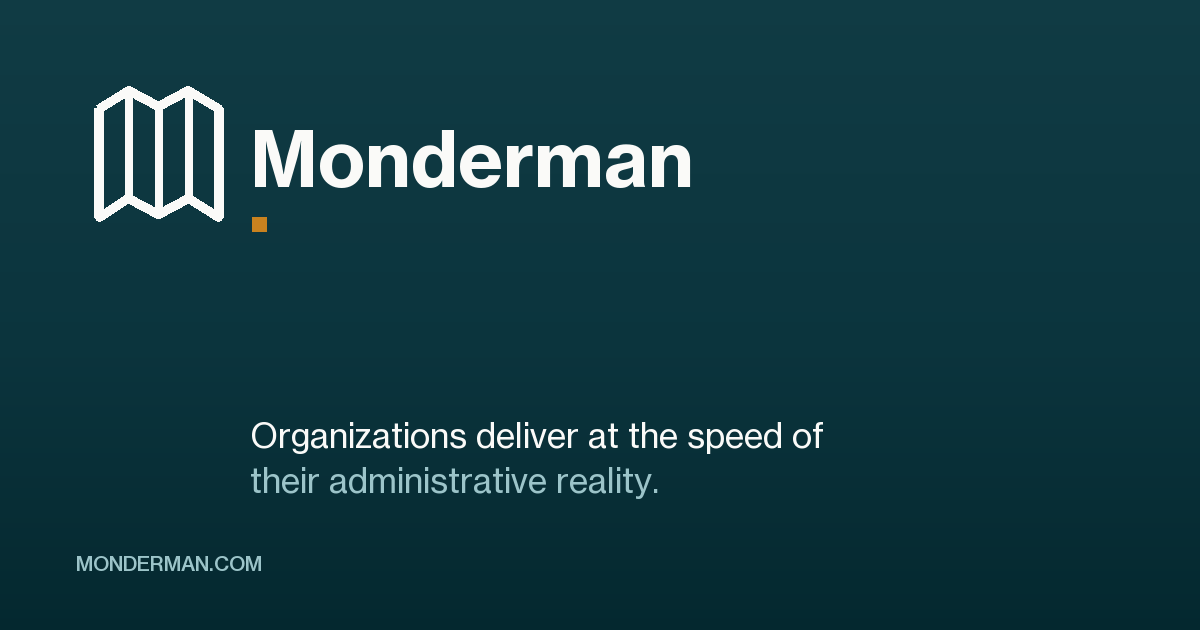
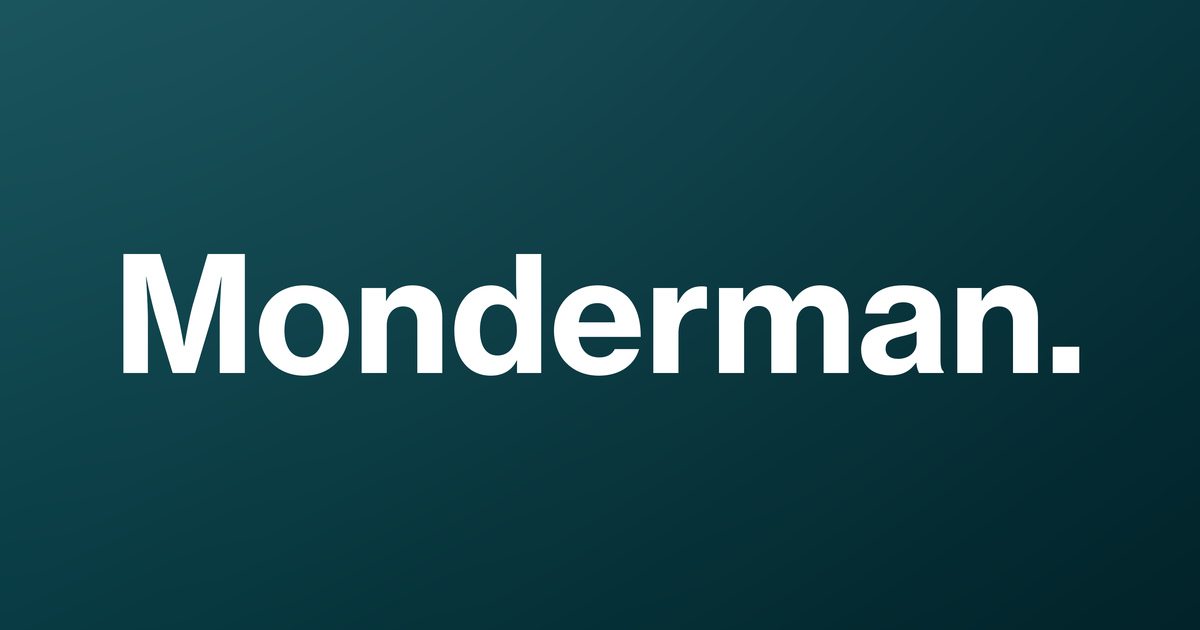
Replace Monderman social sharing card

diff --git a/the-culture-trap.html b/the-culture-trap.html
@@ -7,12 +7,12 @@
   <link rel="apple-touch-icon" href="apple-touch-icon.png?v=20260830-cert1">
 <link rel="stylesheet" href="canonical-site-shell.css?v=20260830-readiness1">
 
-  <meta property="og:image" content="https://www.monderman.com/assets/brand/monderman-social-card.png?v=20260830-cert1">
+  <meta property="og:image" content="https://www.monderman.com/assets/brand/monderman-social-card.png?v=20260901-og2">
   <meta property="og:image:width" content="1200">
   <meta property="og:image:height" content="630">
   <meta property="og:image:alt" content="Monderman">
   <meta name="twitter:card" content="summary_large_image">
-  <meta name="twitter:image" content="https://www.monderman.com/assets/brand/monderman-social-card.png?v=20260830-cert1">
+  <meta name="twitter:image" content="https://www.monderman.com/assets/brand/monderman-social-card.png?v=20260901-og2">
   <meta name="twitter:image:alt" content="Monderman">
 </head><body class="canonical-green-shell page-report"><header class="header" id="siteHeader">
     <div class="header-inner">

diff --git a/sample-report.html b/sample-report.html
@@ -1573,12 +1573,12 @@
 <link rel="stylesheet" href="canonical-site-shell.css?v=20260830-readiness1">
 <link rel="stylesheet" href="sample-report-production.css?v=20260824-sample-alignment">
 
-  <meta property="og:image" content="https://www.monderman.com/assets/brand/monderman-social-card.png?v=20260830-cert1">
+  <meta property="og:image" content="https://www.monderman.com/assets/brand/monderman-social-card.png?v=20260901-og2">
   <meta property="og:image:width" content="1200">
   <meta property="og:image:height" content="630">
   <meta property="og:image:alt" content="Monderman">
   <meta name="twitter:card" content="summary_large_image">
-  <meta name="twitter:image" content="https://www.monderman.com/assets/brand/monderman-social-card.png?v=20260830-cert1">
+  <meta name="twitter:image" content="https://www.monderman.com/assets/brand/monderman-social-card.png?v=20260901-og2">
   <meta name="twitter:image:alt" content="Monderman">
 </head>
 <body class="canonical-green-shell canonical-solid-header page-report">

diff --git a/decision-velocity-article.html b/decision-velocity-article.html
@@ -1081,12 +1081,12 @@
 <link rel="stylesheet" href="canonical-site-shell.css?v=20260830-readiness1">
 <link rel="stylesheet" href="mobile-site-polish.css?v=20260825-2">
 
-  <meta property="og:image" content="https://www.monderman.com/assets/brand/monderman-social-card.png?v=20260830-cert1">
+  <meta property="og:image" content="https://www.monderman.com/assets/brand/monderman-social-card.png?v=20260901-og2">
   <meta property="og:image:width" content="1200">
   <meta property="og:image:height" content="630">
   <meta property="og:image:alt" content="Monderman">
   <meta name="twitter:card" content="summary_large_image">
-  <meta name="twitter:image" content="https://www.monderman.com/assets/brand/monderman-social-card.png?v=20260830-cert1">
+  <meta name="twitter:image" content="https://www.monderman.com/assets/brand/monderman-social-card.png?v=20260901-og2">
   <meta name="twitter:image:alt" content="Monderman">
 </head>
 <body class="canonical-green-shell">

diff --git a/institutional-performance-article.html b/institutional-performance-article.html
@@ -1077,12 +1077,12 @@
 <link rel="stylesheet" href="canonical-site-shell.css?v=20260830-readiness1">
 <link rel="stylesheet" href="mobile-site-polish.css?v=20260825-2">
 
-  <meta property="og:image" content="https://www.monderman.com/assets/brand/monderman-social-card.png?v=20260830-cert1">
+  <meta property="og:image" content="https://www.monderman.com/assets/brand/monderman-social-card.png?v=20260901-og2">
   <meta property="og:image:width" content="1200">
   <meta property="og:image:height" content="630">
   <meta property="og:image:alt" content="Monderman">
   <meta name="twitter:card" content="summary_large_image">
-  <meta name="twitter:image" content="https://www.monderman.com/assets/brand/monderman-social-card.png?v=20260830-cert1">
+  <meta name="twitter:image" content="https://www.monderman.com/assets/brand/monderman-social-card.png?v=20260901-og2">
   <meta name="twitter:image:alt" content="Monderman">
 </head>
 <body class="canonical-green-shell">

diff --git a/operational-systems-article.html b/operational-systems-article.html
@@ -1079,12 +1079,12 @@
 <link rel="stylesheet" href="canonical-site-shell.css?v=20260830-readiness1">
 <link rel="stylesheet" href="mobile-site-polish.css?v=20260825-2">
 
-  <meta property="og:image" content="https://www.monderman.com/assets/brand/monderman-social-card.png?v=20260830-cert1">
+  <meta property="og:image" content="https://www.monderman.com/assets/brand/monderman-social-card.png?v=20260901-og2">
   <meta property="og:image:width" content="1200">
   <meta property="og:image:height" content="630">
   <meta property="og:image:alt" content="Monderman">
   <meta name="twitter:card" content="summary_large_image">
-  <meta name="twitter:image" content="https://www.monderman.com/assets/brand/monderman-social-card.png?v=20260830-cert1">
+  <meta name="twitter:image" content="https://www.monderman.com/assets/brand/monderman-social-card.png?v=20260901-og2">
   <meta name="twitter:image:alt" content="Monderman">
 </head>
 <body class="canonical-green-shell">

diff --git a/research.html b/research.html
@@ -1114,12 +1114,12 @@
 <link rel="stylesheet" href="canonical-site-shell.css?v=20260830-readiness1">
 <link rel="stylesheet" href="mobile-site-polish.css?v=20260825-2">
 
-  <meta property="og:image" content="https://www.monderman.com/assets/brand/monderman-social-card.png?v=20260830-cert1">
+  <meta property="og:image" content="https://www.monderman.com/assets/brand/monderman-social-card.png?v=20260901-og2">
   <meta property="og:image:width" content="1200">
   <meta property="og:image:height" content="630">
   <meta property="og:image:alt" content="Monderman">
   <meta name="twitter:card" content="summary_large_image">
-  <meta name="twitter:image" content="https://www.monderman.com/assets/brand/monderman-social-card.png?v=20260830-cert1">
+  <meta name="twitter:image" content="https://www.monderman.com/assets/brand/monderman-social-card.png?v=20260901-og2">
   <meta name="twitter:image:alt" content="Monderman">
 </head>
 <body class="canonical-green-shell">

diff --git a/structural-clarity-article.html b/structural-clarity-article.html
@@ -1070,12 +1070,12 @@
 <link rel="stylesheet" href="canonical-site-shell.css?v=20260830-readiness1">
 <link rel="stylesheet" href="mobile-site-polish.css?v=20260825-2">
 
-  <meta property="og:image" content="https://www.monderman.com/assets/brand/monderman-social-card.png?v=20260830-cert1">
+  <meta property="og:image" content="https://www.monderman.com/assets/brand/monderman-social-card.png?v=20260901-og2">
   <meta property="og:image:width" content="1200">
   <meta property="og:image:height" content="630">
   <meta property="og:image:alt" content="Monderman">
   <meta name="twitter:card" content="summary_large_image">
-  <meta name="twitter:image" content="https://www.monderman.com/assets/brand/monderman-social-card.png?v=20260830-cert1">
+  <meta name="twitter:image" content="https://www.monderman.com/assets/brand/monderman-social-card.png?v=20260901-og2">
   <meta name="twitter:image:alt" content="Monderman">
 </head>
 <body class="canonical-green-shell">

diff --git a/about.html b/about.html
@@ -646,12 +646,12 @@
 <link rel="stylesheet" href="canonical-site-shell.css?v=20260830-readiness1">
 <link rel="stylesheet" href="mobile-site-polish.css?v=20260825-2">
 
-  <meta property="og:image" content="https://www.monderman.com/assets/brand/monderman-social-card.png?v=20260830-cert1">
+  <meta property="og:image" content="https://www.monderman.com/assets/brand/monderman-social-card.png?v=20260901-og2">
   <meta property="og:image:width" content="1200">
   <meta property="og:image:height" content="630">
   <meta property="og:image:alt" content="Monderman">
   <meta name="twitter:card" content="summary_large_image">
-  <meta name="twitter:image" content="https://www.monderman.com/assets/brand/monderman-social-card.png?v=20260830-cert1">
+  <meta name="twitter:image" content="https://www.monderman.com/assets/brand/monderman-social-card.png?v=20260901-og2">
   <meta name="twitter:image:alt" content="Monderman">
 </head>
 <body class="canonical-green-shell">

diff --git a/Monderman_Platform_Brief.html b/Monderman_Platform_Brief.html
@@ -57,12 +57,12 @@ html{scroll-padding-top:0}
 @media(prefers-reduced-motion:reduce){html{scroll-snap-type:none}}
 </style>
 
-  <meta property="og:image" content="https://www.monderman.com/assets/brand/monderman-social-card.png?v=20260830-cert1">
+  <meta property="og:image" content="https://www.monderman.com/assets/brand/monderman-social-card.png?v=20260901-og2">
   <meta property="og:image:width" content="1200">
   <meta property="og:image:height" content="630">
   <meta property="og:image:alt" content="Monderman">
   <meta name="twitter:card" content="summary_large_image">
-  <meta name="twitter:image" content="https://www.monderman.com/assets/brand/monderman-social-card.png?v=20260830-cert1">
+  <meta name="twitter:image" content="https://www.monderman.com/assets/brand/monderman-social-card.png?v=20260901-og2">
   <meta name="twitter:image:alt" content="Monderman">
 </head>
 <body class="canonical-green-shell page-report">

diff --git a/privacy-2026-08-26-beta.html b/privacy-2026-08-26-beta.html
@@ -650,12 +650,12 @@
 </style>
 <link rel="stylesheet" href="canonical-site-shell.css?v=20260828-footer-aperture3">
 
-  <meta property="og:image" content="https://www.monderman.com/assets/brand/monderman-social-card.png?v=20260830-cert1">
+  <meta property="og:image" content="https://www.monderman.com/assets/brand/monderman-social-card.png?v=20260901-og2">
   <meta property="og:image:width" content="1200">
   <meta property="og:image:height" content="630">
   <meta property="og:image:alt" content="Monderman">
   <meta name="twitter:card" content="summary_large_image">
-  <meta name="twitter:image" content="https://www.monderman.com/assets/brand/monderman-social-card.png?v=20260830-cert1">
+  <meta name="twitter:image" content="https://www.monderman.com/assets/brand/monderman-social-card.png?v=20260901-og2">
   <meta name="twitter:image:alt" content="Monderman">
 </head>
 <body class="canonical-green-shell page-legal">

diff --git a/privacy.html b/privacy.html
@@ -650,12 +650,12 @@
 </style>
 <link rel="stylesheet" href="canonical-site-shell.css?v=20260828-footer-aperture3">
 
-  <meta property="og:image" content="https://www.monderman.com/assets/brand/monderman-social-card.png?v=20260830-cert1">
+  <meta property="og:image" content="https://www.monderman.com/assets/brand/monderman-social-card.png?v=20260901-og2">
   <meta property="og:image:width" content="1200">
   <meta property="og:image:height" content="630">
   <meta property="og:image:alt" content="Monderman">
   <meta name="twitter:card" content="summary_large_image">
-  <meta name="twitter:image" content="https://www.monderman.com/assets/brand/monderman-social-card.png?v=20260830-cert1">
+  <meta name="twitter:image" content="https://www.monderman.com/assets/brand/monderman-social-card.png?v=20260901-og2">
   <meta name="twitter:image:alt" content="Monderman">
 </head>
 <body class="canonical-green-shell page-legal">

diff --git a/terms-2026-08-26-beta.html b/terms-2026-08-26-beta.html
@@ -20,12 +20,12 @@
   </style>
 <link rel="stylesheet" href="canonical-site-shell.css?v=20260828-footer-aperture3">
 
-  <meta property="og:image" content="https://www.monderman.com/assets/brand/monderman-social-card.png?v=20260830-cert1">
+  <meta property="og:image" content="https://www.monderman.com/assets/brand/monderman-social-card.png?v=20260901-og2">
   <meta property="og:image:width" content="1200">
   <meta property="og:image:height" content="630">
   <meta property="og:image:alt" content="Monderman">
   <meta name="twitter:card" content="summary_large_image">
-  <meta name="twitter:image" content="https://www.monderman.com/assets/brand/monderman-social-card.png?v=20260830-cert1">
+  <meta name="twitter:image" content="https://www.monderman.com/assets/brand/monderman-social-card.png?v=20260901-og2">
   <meta name="twitter:image:alt" content="Monderman">
 </head>
 <body class="canonical-green-shell page-legal">
